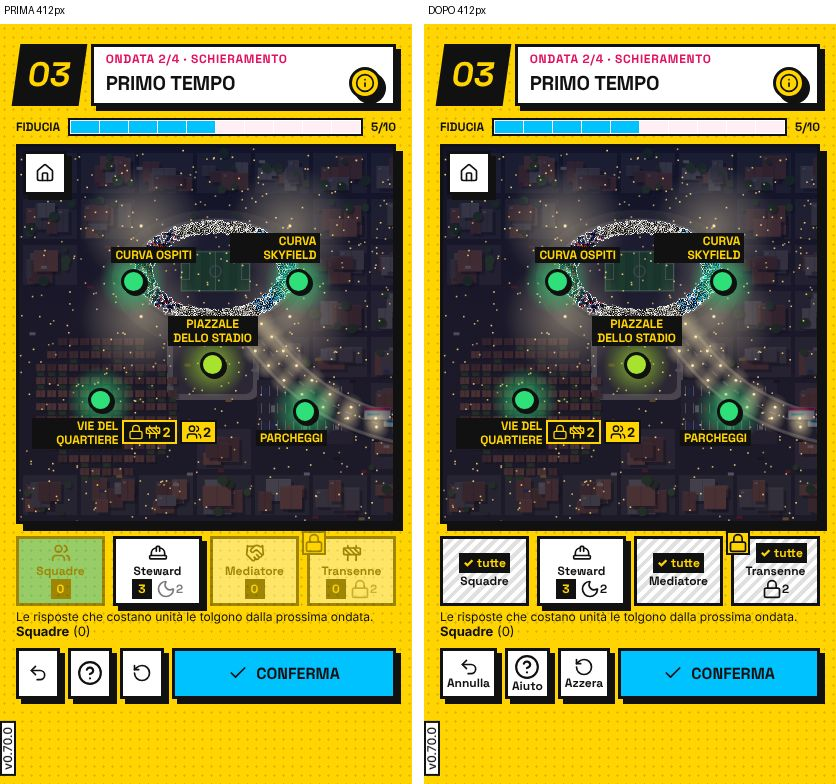
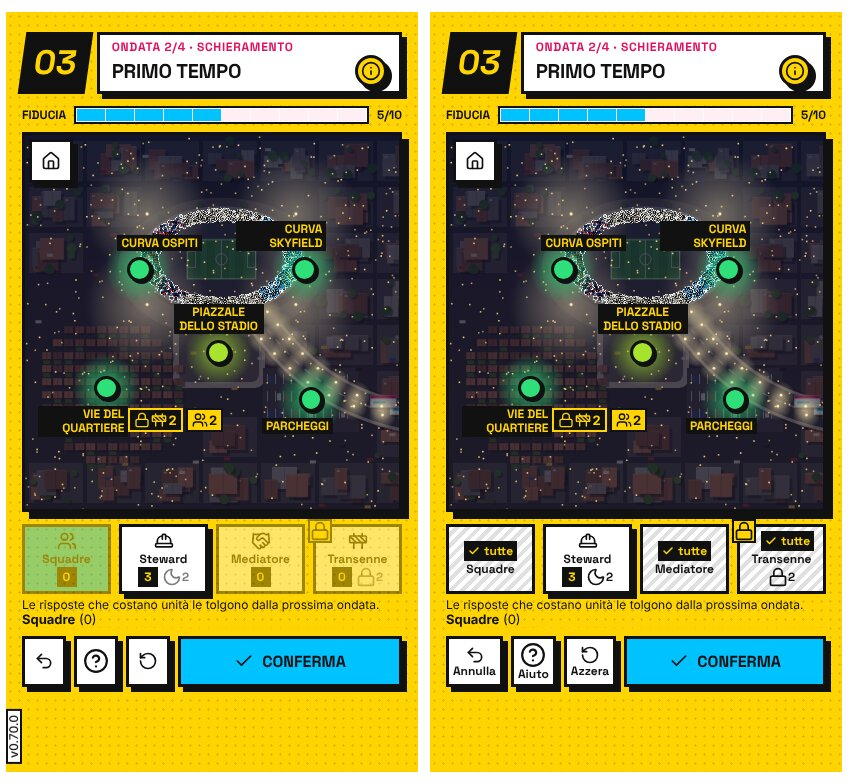
D-283: D-16 esce dal lotto (scelta della principale, opzione B)
Il testo corto del costo cambiava l'altezza del riquadro radio sulla
mappa: spostamento a 360x640 su 36 episodi 860 oltre 44 px (tetto e
main 818), col rosso C283R01 818. Ritirati quandoRadio, la chiave
costo.da_quando e il test; misure e foto per la sessione della mappa
in docs/foto/d283/d16/APPUNTI.md. Foto di schieramento e vassoio
rifatte con la spunta a icona.

diff --git a/src/resa/schermate/Ondata.tsx b/src/resa/schermate/Ondata.tsx
@@ -15,7 +15,7 @@ import { Messaggio } from './Scena.tsx';
 import { iconaChi, VignettaChiamata } from '../vignette-chiamata.tsx';
 import { urgente } from '../vignette-evento.tsx';
 import { altoNellaPagina, scorriPerIntero } from '../vista.ts';
-import { EffettiOpzione, quandoCosta, quandoRadio } from '../effetti-opzione.tsx';
+import { EffettiOpzione, quandoCosta } from '../effetti-opzione.tsx';
 
 
 /** Durata di un «secondo» delle attese della scena (Scena.tsx, Tono.tsx). Solo per gli strumenti: il giro foto mette
@@ -189,7 +189,7 @@ export const costoMorso = (e: EffettoMissione): string => ('tensione' in e ? `Te
 // non ha posto per il rapporto (stretto, compatto, muto: radio-mappa.tsx), così il costo si vede sempre. Rosso C258S01: niente copia.
 export function RapportoCosto(p: { m: Missione; ic: InCorso; o: Opzione; sotto?: boolean }) {
   if (spento('C241A01') || !p.o.costo || (p.sotto && spento('C258S01'))) return null;
-  const quando = quandoRadio(p.o, p.ic.ondata >= p.m.ondate.length); // D-283 (D-16): senza ripetere l'unità
+  const quando = quandoCosta(p.o, p.ic.ondata >= p.m.ondate.length);
   return (
     <p className={`rapporto-costo${p.sotto ? ' rapporto-sotto' : ''}`} data-rapporto-costo={p.o.id} data-sotto={p.sotto ? '' : undefined}>
       <strong><Icona di={Radio} />{t('radio.costo')}</strong> <span data-costo={p.o.id}>{t(p.o.costo)}</span>

diff --git a/src/resa/effetti-opzione.tsx b/src/resa/effetti-opzione.tsx
@@ -47,14 +47,3 @@ export function quandoCosta(o: Opzione, ultima = false): string | null {
   if (ultima && !spento('C42U01')) return t('costo.fine_serata');
   return `${t('costo.ti_costa')} ${u.map((e) => quante(-e.valore, e.riserva)).join(', ')} ${t('costo.dalla_prossima')}`;
 }
-
-/** D-283 (D-16): nella radio dopo «Conferma» il testo del costo (dati) nomina già l'unità che si impegna («ma ti costa una
- *  squadra»: tutte le 237 risposte con costo in unità, misura del 15/11): la regola non la ripete e dice solo da quando vale.
- *  Se il testo non nomina un'unità impegnata resta la frase intera. Rosso C283R01: sempre la frase intera, come prima. */
-export function quandoRadio(o: Opzione, ultima = false): string | null {
-  const q = quandoCosta(o, ultima);
-  if (!q || ultima || !o.costo || spento('C283R01')) return q;
-  const testo = t(o.costo), parola = (f: string) => new RegExp(`(^|[^\\p{L}])${f}([^\\p{L}]|$)`, 'iu').test(testo);
-  const detta = o.effetti.every((e) => !('riserva' in e) || e.valore >= 0 || [quante(1, e.riserva), quante(2, e.riserva)].some((x) => parola(x.replace(/^\d+ /, ''))));
-  return detta ? t('costo.da_quando') : q;
-}

diff --git a/docs/foto/d283/README.md b/docs/foto/d283/README.md
@@ -4,28 +4,24 @@ Ramo `claude/valmora-grafica-piccole`, da `main`. Codici del rapporto del collau
 (`docs/collaudo/grafica-fable/RAPPORTO.md` sul ramo `claude/valmora-collaudo-grafico-fable`).
 Guardiani agganciati in `tools/passi-grafica.mjs` (passo «altezze» per il verde, «bracci-rossi-grafica» per i rossi, tabella
 `BRACCI_D283` in `tools/foto-d283.mjs`); `tools/foto-po152-b.mjs` e `tools/bracci-po152b.mjs` non sono toccati.
-Provini `<schermata>-<larghezza>.jpg`: a sinistra PRIMA (main), a destra DOPO; le foto piccole (barra, vassoio, radio) sono
+Provini `<schermata>-<larghezza>.jpg`: a sinistra PRIMA (main), a destra DOPO; le foto piccole (barra, vassoio) sono
 ingrandite 2×. Strumenti: `node tools/foto-d283.mjs <build> <cartella> 360,375,412` (misure e foto), il giro della città di
-`tools/foto-po149.mjs`, `tests/costo-radio-d283.test.ts`.
+`tools/foto-po149.mjs`.
 
 | Voce | File | PRIMA (main) | DOPO | Rosso |
 |---|---|---|---|---|
 | D-12/M-2 parola sotto le icone | `Schieramento.tsx` (barra), `stile-d283.css` | annulla, aiuto, azzera: sola icona, 44 px l'uno | «Annulla» 57, «Aiuto» 45, «Azzera» 52 px; i quattro pulsanti occupano 328/328 (360), 343/343 (375), 380/380 (412); barra alta 67 px prima e dopo; nessun testo tagliato | C283P01: 3 problemi |
 | D-13 stato premuto | `stile-d283.css` | Home e «i»: nessun cambio con `:active` (forzato con CDP) | spinta 3 px + ombra corta, come `.pulsante`; il «?» della barra è un `.pulsante` e lo era già. Pastiglie e dischi: alla sessione della mappa (indicazione della principale) | C283A01: 2 problemi |
-| D-09/M-3 unità finite e a riposo | `Schieramento.tsx`, `stile-d283.css`, `token.css` (`--righe-esaurita`) | a riposo «2» 4,17:1; finita: nome 1,91:1, «0» 2,48:1 (colori composti con le opacità) | a riposo 18,88:1; finita: nome 14,36:1, «✓ tutte» 13,19:1 (contro la riga più scura); vassoio alto 70 px prima e dopo; «✓ tutte» al posto dell'icona dell'unità | C283E01: 4 problemi |
+| D-09/M-3 unità finite e a riposo | `Schieramento.tsx`, `stile-d283.css`, `token.css` (`--righe-esaurita`) | a riposo «2» 4,17:1; finita: nome 1,91:1, «0» 2,48:1 (colori composti con le opacità) | a riposo 18,88:1; finita: nome 14,36:1, «✓ tutte» 13,19:1 (contro la riga più scura); vassoio alto 70 px prima e dopo; «tutte» con la spunta (icona: «✓» non è nei caratteri inclusi, D-257) al posto dell'icona dell'unità | C283E01: 4 problemi |
 | D-07/M-5 scheda «fallito» | `stile-d283.css` | scheda 22 px sotto e «Rigioca» a −18,2 px dal riquadro interno, a 760 e 915 per 360/375/412 | nessun taglio, margine ≥ 4 px; mappa allo stesso posto in tutti gli stati (279 px dall'alto a 760/915) | C283F01: 4 problemi a 360 |
 | D-10/M-8 verbale | `Verbale.tsx`, `App.tsx`, `stile-d283.css` | 360×640 e01 «Contenuto a fatica»: nota a 628-647 su 640 (fuori), fiducia sopra la testata a 640/667/760 | nota a 581-594, sopra i pulsanti, senza toccare l'ombra della scheda; fiducia sotto la testata; «Prossimo episodio» visibile 46 px su 51 a scorrimento zero (prima 51) | C283V01: 1; C283V02: 3 |
 | D-15 versione nei Crediti | `Crediti.tsx`, `stile-d283.css` | versione nell'angolo a 0 px dal bordo di 3 schede (640) e 2 (915) | nell'angolo non c'è; «Versione 0.70.0» in fondo alla pagina | C283C01: 4 problemi |
-| D-16 costo in radio | `effetti-opzione.tsx` (`quandoRadio`), `Ondata.tsx` (`RapportoCosto`), `data/testi/it/comune.json` | 206 risposte su 234 ripetono l'unità («ti costa una squadra. Ti costa 1 squadra dalla prossima ondata»); riquadro radio e01 alto 55 px a 360 | 0 su 234; «… ti costa una squadra. Dalla prossima ondata.»; riquadro 38 px | C283R01: 206 |
-
-D-16 è una regola di testo condivisa: tutte le 237 risposte con costo in unità (missioni e imprevisti) nominano già l'unità nel
-loro testo; i dati di missione non sono stati toccati. L'ultima ondata («Le unità restano impegnate fino a fine serata») resta
-com'era.
+| D-16 costo in radio | — | uscito dal lotto (scelta della principale): accorciare il testo sposta le pastiglie della mappa; misure in `d16/APPUNTI.md` | — | — |
 
 ## Limiti dichiarati
 - Il verbale a 360×640 scorre di 45 px (prima 47); con la nota sopra, «Prossimo episodio» è tagliato di 5 px in basso a
   scorrimento zero (46 su 51 visibili, sopra i 44 del tocco minimo).
 - Lo stato premuto è misurato forzando `:active` con CDP, non con un dito vero.
-- Il controllo «✓ tutte» sotto il lucchetto delle unità fisse è stato visto rosso solo sulla foto della prima versione, non con
+- Il controllo «tutte» sotto il lucchetto delle unità fisse è stato visto rosso solo sulla foto della prima versione, non con
   un interruttore.
 - Il contrasto è calcolato componendo colori e opacità dei fondi pieni e delle righe; il retino a puntini del fondo è ignorato.

diff --git a/docs/foto/d283/d16/APPUNTI.md b/docs/foto/d283/d16/APPUNTI.md
@@ -1,0 +1,34 @@
+# D-16 · costo ripetuto nella radio · appunti per la sessione della mappa
+
+Il punto D-16 è uscito dal lotto D-283 (scelta della principale, opzione B).
+
+Il testo del costo sta nel riquadro radio sulla mappa (`App.tsx:247` → `RapportoCosto`, `Ondata.tsx`). Accorciarlo cambia
+l'altezza del riquadro e quindi la disposizione delle pastiglie. Per questo D-16 va fatto insieme alla mappa.
+
+## Il difetto (FATTO MISURATO sul ramo, commit 46c2d5d)
+- La radio dice il costo due volte: il testo dei dati («Calma la strada, ma ti costa una squadra.») e la frase della regola
+  comune `quandoCosta` (`effetti-opzione.tsx`), «Ti costa 1 squadra dalla prossima ondata».
+- È una regola di testo condivisa, non un dato di missione. Su 234 risposte con costo in unità nelle missioni, 206 nominano
+  già l'unità nel loro testo e poi la regola la ripete. Contando anche gli imprevisti le risposte sono 237.
+- L'ultima ondata («Le unità restano impegnate fino a fine serata») non ripete nulla.
+
+## La correzione provata e ritirata
+- `quandoRadio(o, ultima)`: se il testo nomina già ogni unità impegnata (forme di `quante(1|2, r)`), la radio dice solo
+  «Dalla prossima ondata.» (nuova chiave `costo.da_quando`). Rosso C283R01.
+- Ripetizioni: da 206 a 0 su 234.
+- Riquadro radio di e01 a 360: da 55 a 38 px (foto `radio-proposta-<larghezza>.jpg`: a sinistra main, a destra la proposta).
+
+## Perché è uscita (FATTO MISURATO, 360×640, 36 episodi, VALMORA_SALTI_TUTTI=1, 4 pagine)
+
+| Build | oltre 44 px | sparizione | massimo |
+|---|---|---|---|
+| main | 818 | 75 | 199 px |
+| ramo con D-16 | 860 (sopra il tetto) | 235 | 199 px |
+| ramo con D-16 spento (C283R01) | 818 | 75 | 199 px |
+
+- Peggiora soprattutto e20: 112 elementi contro 28, tutti nella sparizione dei segni ▲/▼.
+- Peggiora anche e30: 48 nella sparizione contro 0.
+- Altri episodi migliorano: e31 12 contro 33, e07 7 contro 16.
+
+Nella CI 1452 (commit 2e363b3) il braccio `altezze/C271U01` di `tools/bracci-po152b.mjs` (e03, e04) era cieco: 7 problemi
+invece di 13. Che la causa sia D-16 è un'IPOTESI, verificata ritirando D-16 (vedi la consegna D-283).
